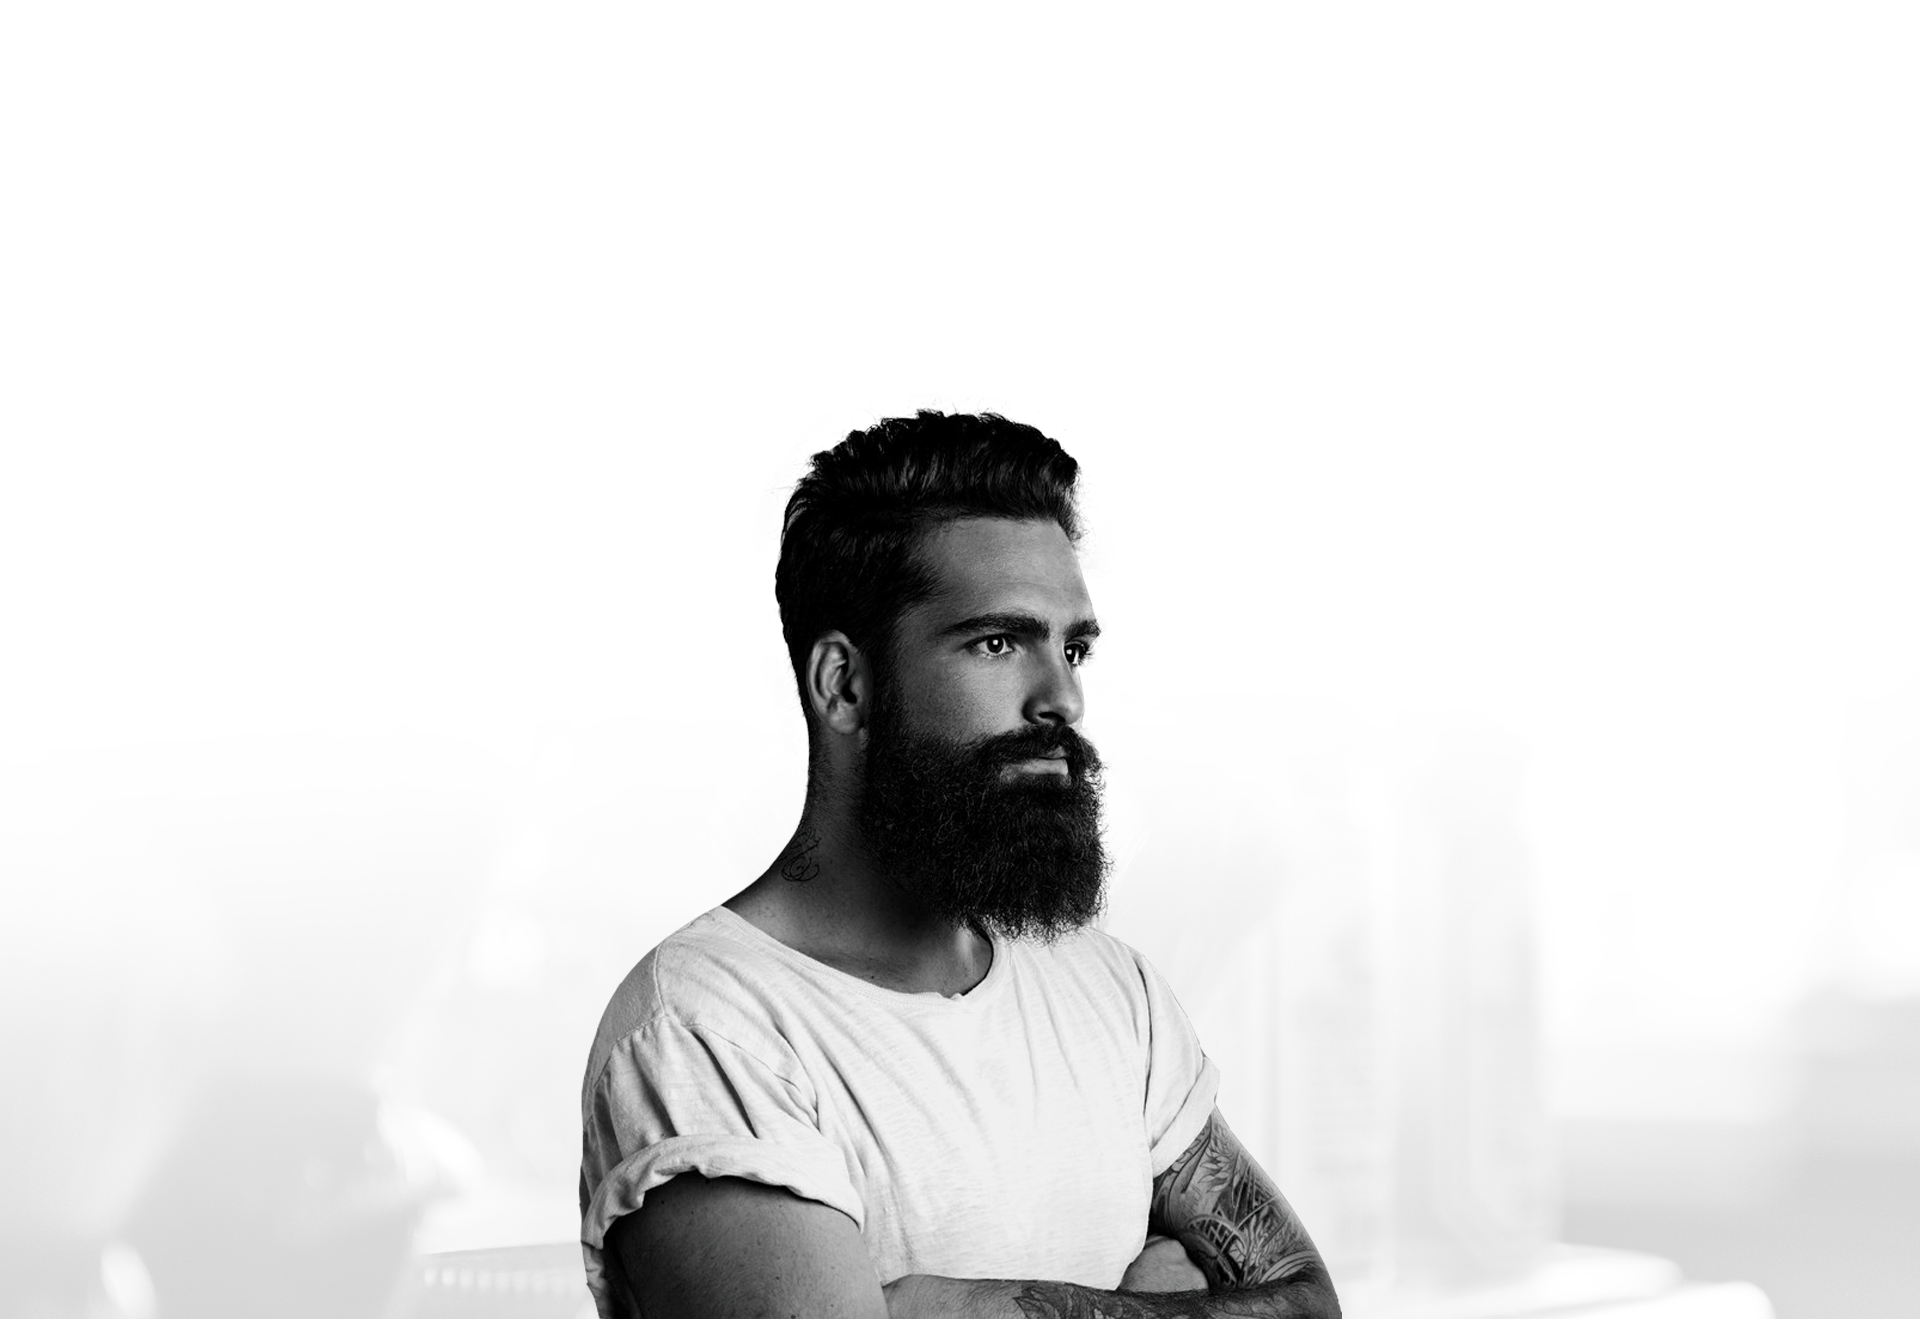
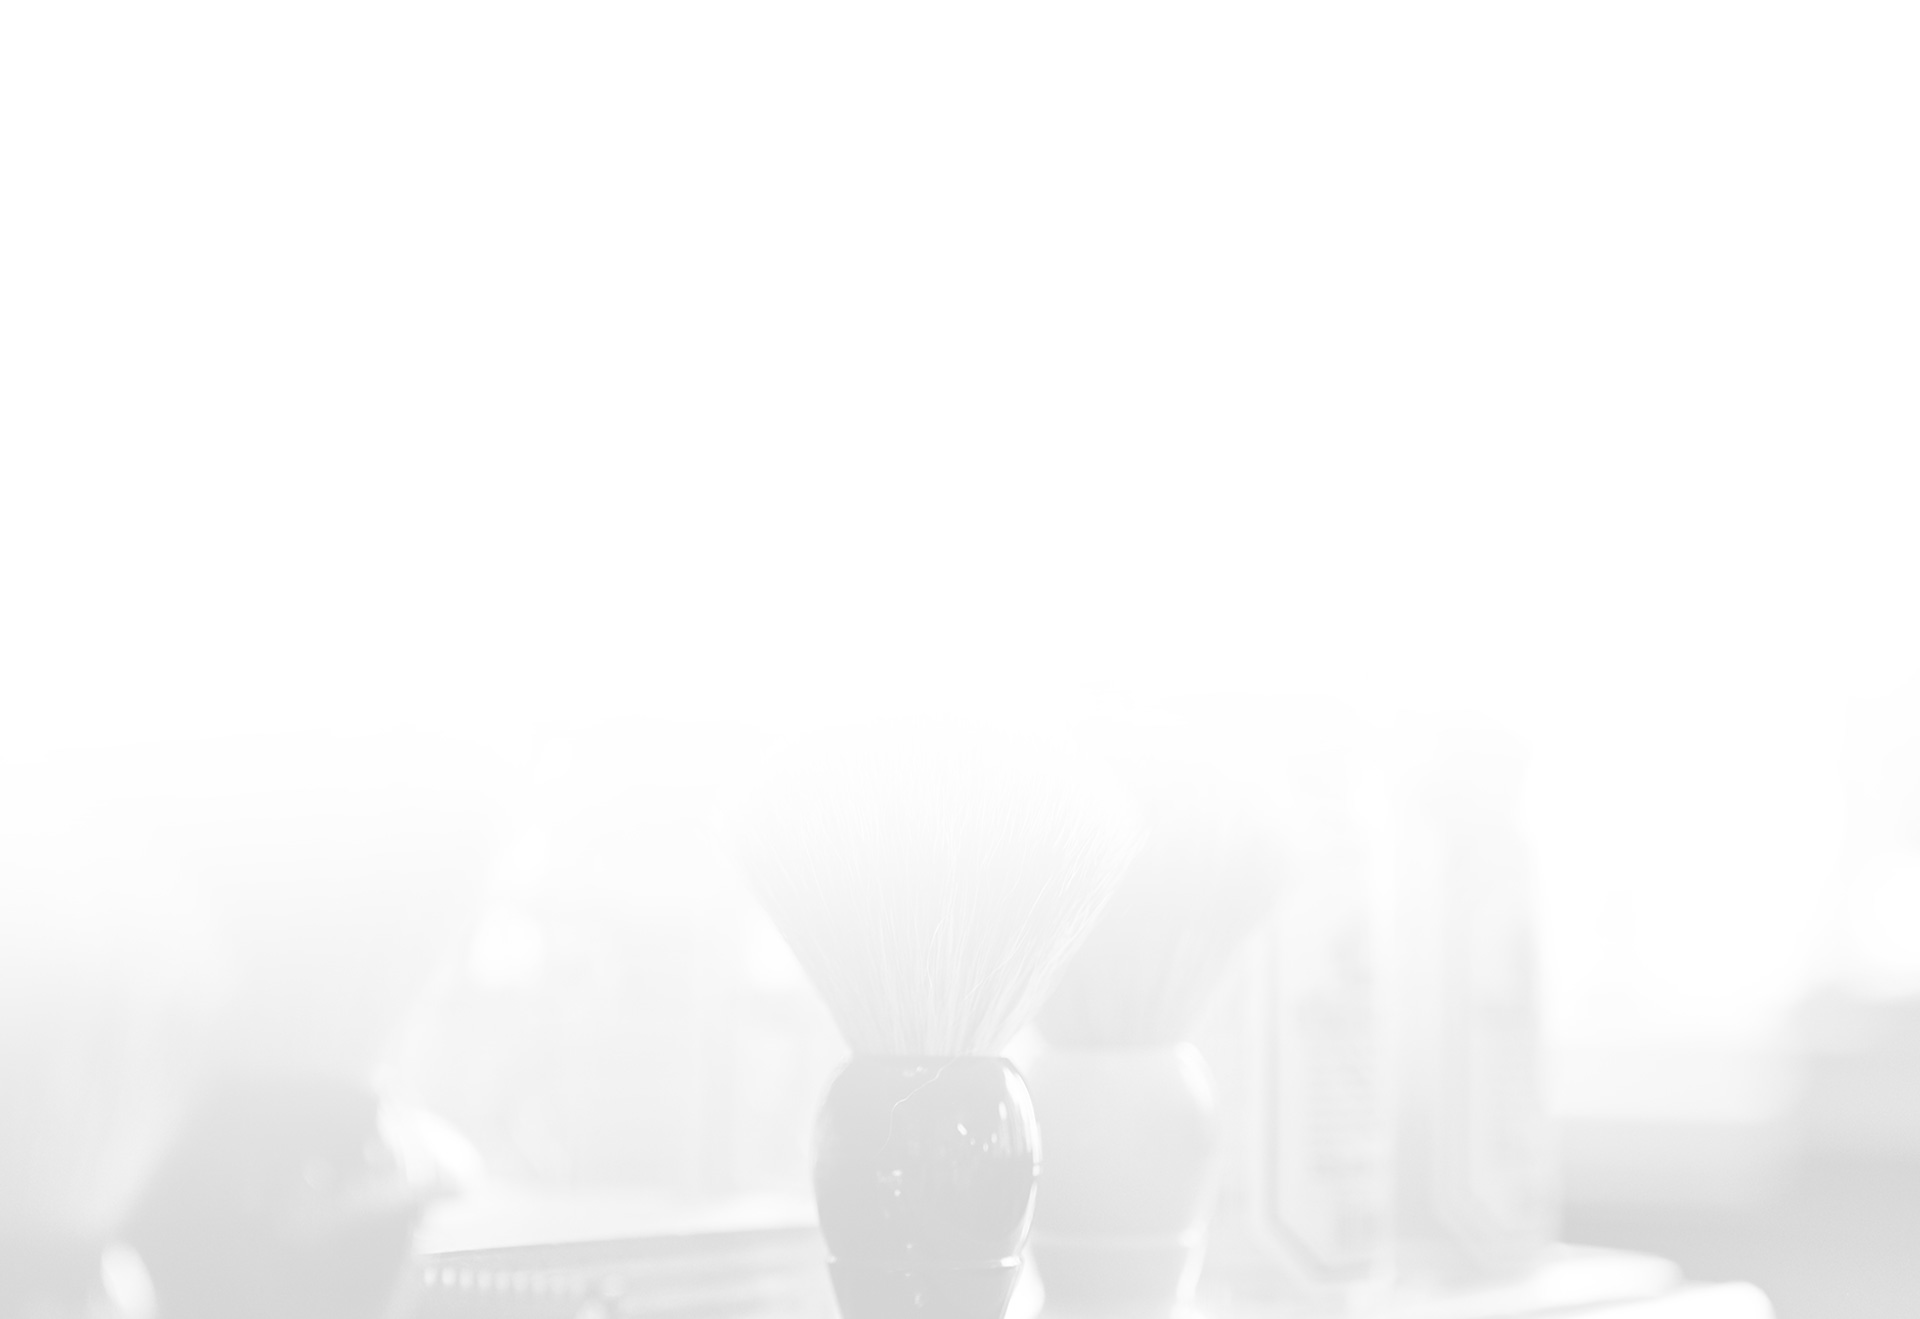
working on our services

Changed region(s): [[0.2812, 0.3108, 0.7188, 1.0]]

diff --git a/app/css/styles.css b/app/css/styles.css
@@ -2827,11 +2827,12 @@ h1.cta-slogan {
     color: #995437; }
 
 .section-intro {
-  margin: 0 auto;
+  margin: 0 auto 5em auto;
   max-width: 40em; }
   .section-intro .intro-text {
     margin-top: 1em;
-    font-size: 2rem; }
+    font-size: 2rem;
+    padding: 0 0.5em; }
 
 .mustache {
   position: relative;
@@ -2855,10 +2856,10 @@ h1.cta-slogan {
     margin-left: 60px; }
 
 .info-wrapper {
-  margin-top: 8em; }
-  @media screen and (max-width: 550px) {
+  margin-top: 6em; }
+  @media screen and (min-width: 550px) {
     .info-wrapper {
-      margin-top: 6em; } }
+      margin-top: 8em; } }
 
 .info-item-box {
   position: relative;
@@ -2909,17 +2910,54 @@ h1.cta-slogan {
     .numbers-text {
       margin-bottom: 1em; } }
 
-.our-services {
-  -webkit-background-size: cover;
-          background-size: cover; }
+@media screen and (min-width: 1200px) {
+  .our-services {
+    background: url(../img/our-services-bg-man.png), url(../img/our-services-bg.jpg);
+    background-repeat: no-repeat;
+    -webkit-background-size: cover;
+            background-size: cover;
+    margin-bottom: 1em; } }
 
-.service-wrapper {
-  display: -webkit-box;
-  display: -webkit-flex;
-  display: -ms-flexbox;
-  display: flex; }
+.our-services-wrapper {
+  text-align: left; }
 
-[class^="service-icon"] {
-  width: 90px;
-  height: 90px;
-  background-image: url(../img/service-1.png); }
+@media screen and (min-width: 992px) {
+  [class^="service-item"] {
+    display: -webkit-box;
+    display: -webkit-flex;
+    display: -ms-flexbox;
+    display: flex;
+    -webkit-box-pack: end;
+    -webkit-justify-content: flex-end;
+        -ms-flex-pack: end;
+            justify-content: flex-end; }
+    [class^="service-item"] .service-text {
+      max-width: 25em; }
+  .service-item-right {
+    text-align: right;
+    -webkit-box-pack: start;
+    -webkit-justify-content: flex-start;
+        -ms-flex-pack: start;
+            justify-content: flex-start; }
+    .service-item-right [class^="service-icon"] {
+      -webkit-box-ordinal-group: 3;
+      -webkit-order: 2;
+          -ms-flex-order: 2;
+              order: 2;
+      margin-right: 0;
+      margin-left: 1em; }
+  [class^="service-icon"] {
+    -webkit-align-self: center;
+        -ms-flex-item-align: center;
+            align-self: center;
+    width: 90px;
+    height: 90px;
+    margin-right: 1em; }
+  .service-icon-1 {
+    background-image: url(../img/service-1.png); }
+  .service-icon-2 {
+    background-image: url(../img/service-2.png); }
+  .service-icon-3 {
+    background-image: url(../img/service-3.png); }
+  .service-icon-4 {
+    background-image: url(../img/service-4.png); } }

diff --git a/app/index.html b/app/index.html
@@ -170,17 +170,45 @@
 			<div class="container">
 				<div class="row">
 
-					<div class="col-md-4">
-						<div class="service-wrapper">
-							<div class="service-text align-right">
+					<div class="col-md-6">
+						<div class="service-item-right">
+							<div class="service-icon-1"></div>
+							<div class="service-text">
 								<h4>Hair Cut</h4>
-								<p>Lorem ipsum dolor sit amet, consectetur adipisicing elit. Est repellendus sint aperiam nihil veritatis fugiat rem veniam, labore cumque omnis, accusamus.</p>
+								<p>The most stylish haircuts such as Buzz cut, Long Layer cut, Razor Fade, Long cut.</p>
 							</div>
-							<div class="service-icon"></div>
 						</div>
 					</div>
 
-					<div class="col-md-4 col-md-push-4">hair styling</div>
+					<div class="col-md-6">
+						<div class="service-item">
+							<div class="service-icon-2"></div>
+							<div class="service-text">
+								<h4>Hair Styling</h4>
+								<p>Professional infusion of gels, hairsprays and creams to make your hair stand out.</p>
+							</div>
+						</div>
+					</div>
+
+					<div class="col-md-6">
+						<div class="service-item-right">
+							<div class="service-icon-3"></div>
+							<div class="service-text">
+								<h4>Hair Wash</h4>
+								<p>Only top of the line hair products are used to preserve your hair health and looks.</p>
+							</div>
+						</div>
+					</div>
+
+					<div class="col-md-6">
+						<div class="service-item">
+							<div class="service-icon-4"></div>
+							<div class="service-text">
+								<h4>Shave</h4>
+								<p>A smooth and comfort shaving at your service. Beard trim, classic shave, head shave are just a few to name.</p>
+							</div>
+						</div>
+					</div>
 
 				</div><!-- row -->
 			</div><!-- container -->

diff --git a/sass/layouts/_main.sass b/sass/layouts/_main.sass
@@ -1,9 +1,10 @@
 .section-intro
-	margin: 0 auto
+	margin: 0 auto 5em auto
 	max-width: 40em
 	.intro-text
 		margin-top: 1em
 		font-size: 2rem
+		padding: 0 0.5em
 
 .mustache
 	position: relative
@@ -31,9 +32,9 @@
 // About us
 // ----------------------------
 .info-wrapper
-	margin-top: 8em
-	@media screen and (max-width: 550px)
-		margin-top: 6em
+	margin-top: 6em
+	@media screen and (min-width: 550px)
+		margin-top: 8em
 .info-item-box
 	position: relative
 	margin-bottom: 0.1em
@@ -86,12 +87,40 @@
 // Our Services
 // ----------------------------
 .our-services
-	// background-image: url(../img/our-services-bg.jpg)
-	background-size: cover
+	@media screen and (min-width: 1200px)
+		// padding-bottom: 20em
+		background: url(../img/our-services-bg-man.png), url(../img/our-services-bg.jpg)
+		background-repeat: no-repeat
+		background-size: cover
+		margin-bottom: 1em
+.our-services-wrapper
+	text-align: left
 
-.service-wrapper
-	display: flex
-[class^="service-icon"]
-	width: 90px
-	height: 90px
-	background-image: url(../img/service-1.png)
+@media screen and (min-width: 992px)
+	[class^="service-item"]
+		display: flex
+		justify-content: flex-end
+		.service-text
+			max-width: 25em
+	.service-item-right
+		text-align: right
+		justify-content: flex-start
+
+		[class^="service-icon"]
+			order: 2
+			margin-right: 0
+			margin-left: 1em
+	[class^="service-icon"]
+		align-self: center
+		width: 90px
+		height: 90px
+		margin-right: 1em
+	.service-icon
+		&-1
+			background-image: url(../img/service-1.png)		
+		&-2
+			background-image: url(../img/service-2.png)
+		&-3
+			background-image: url(../img/service-3.png)
+		&-4
+			background-image: url(../img/service-4.png)					

diff --git a/sass/base/_typography.sass b/sass/base/_typography.sass
@@ -45,6 +45,7 @@ h3
 
 h4
 	font-size: 2rem
+	// margin: 0
 
 
 /* When an h2 is directly after an h1 */
